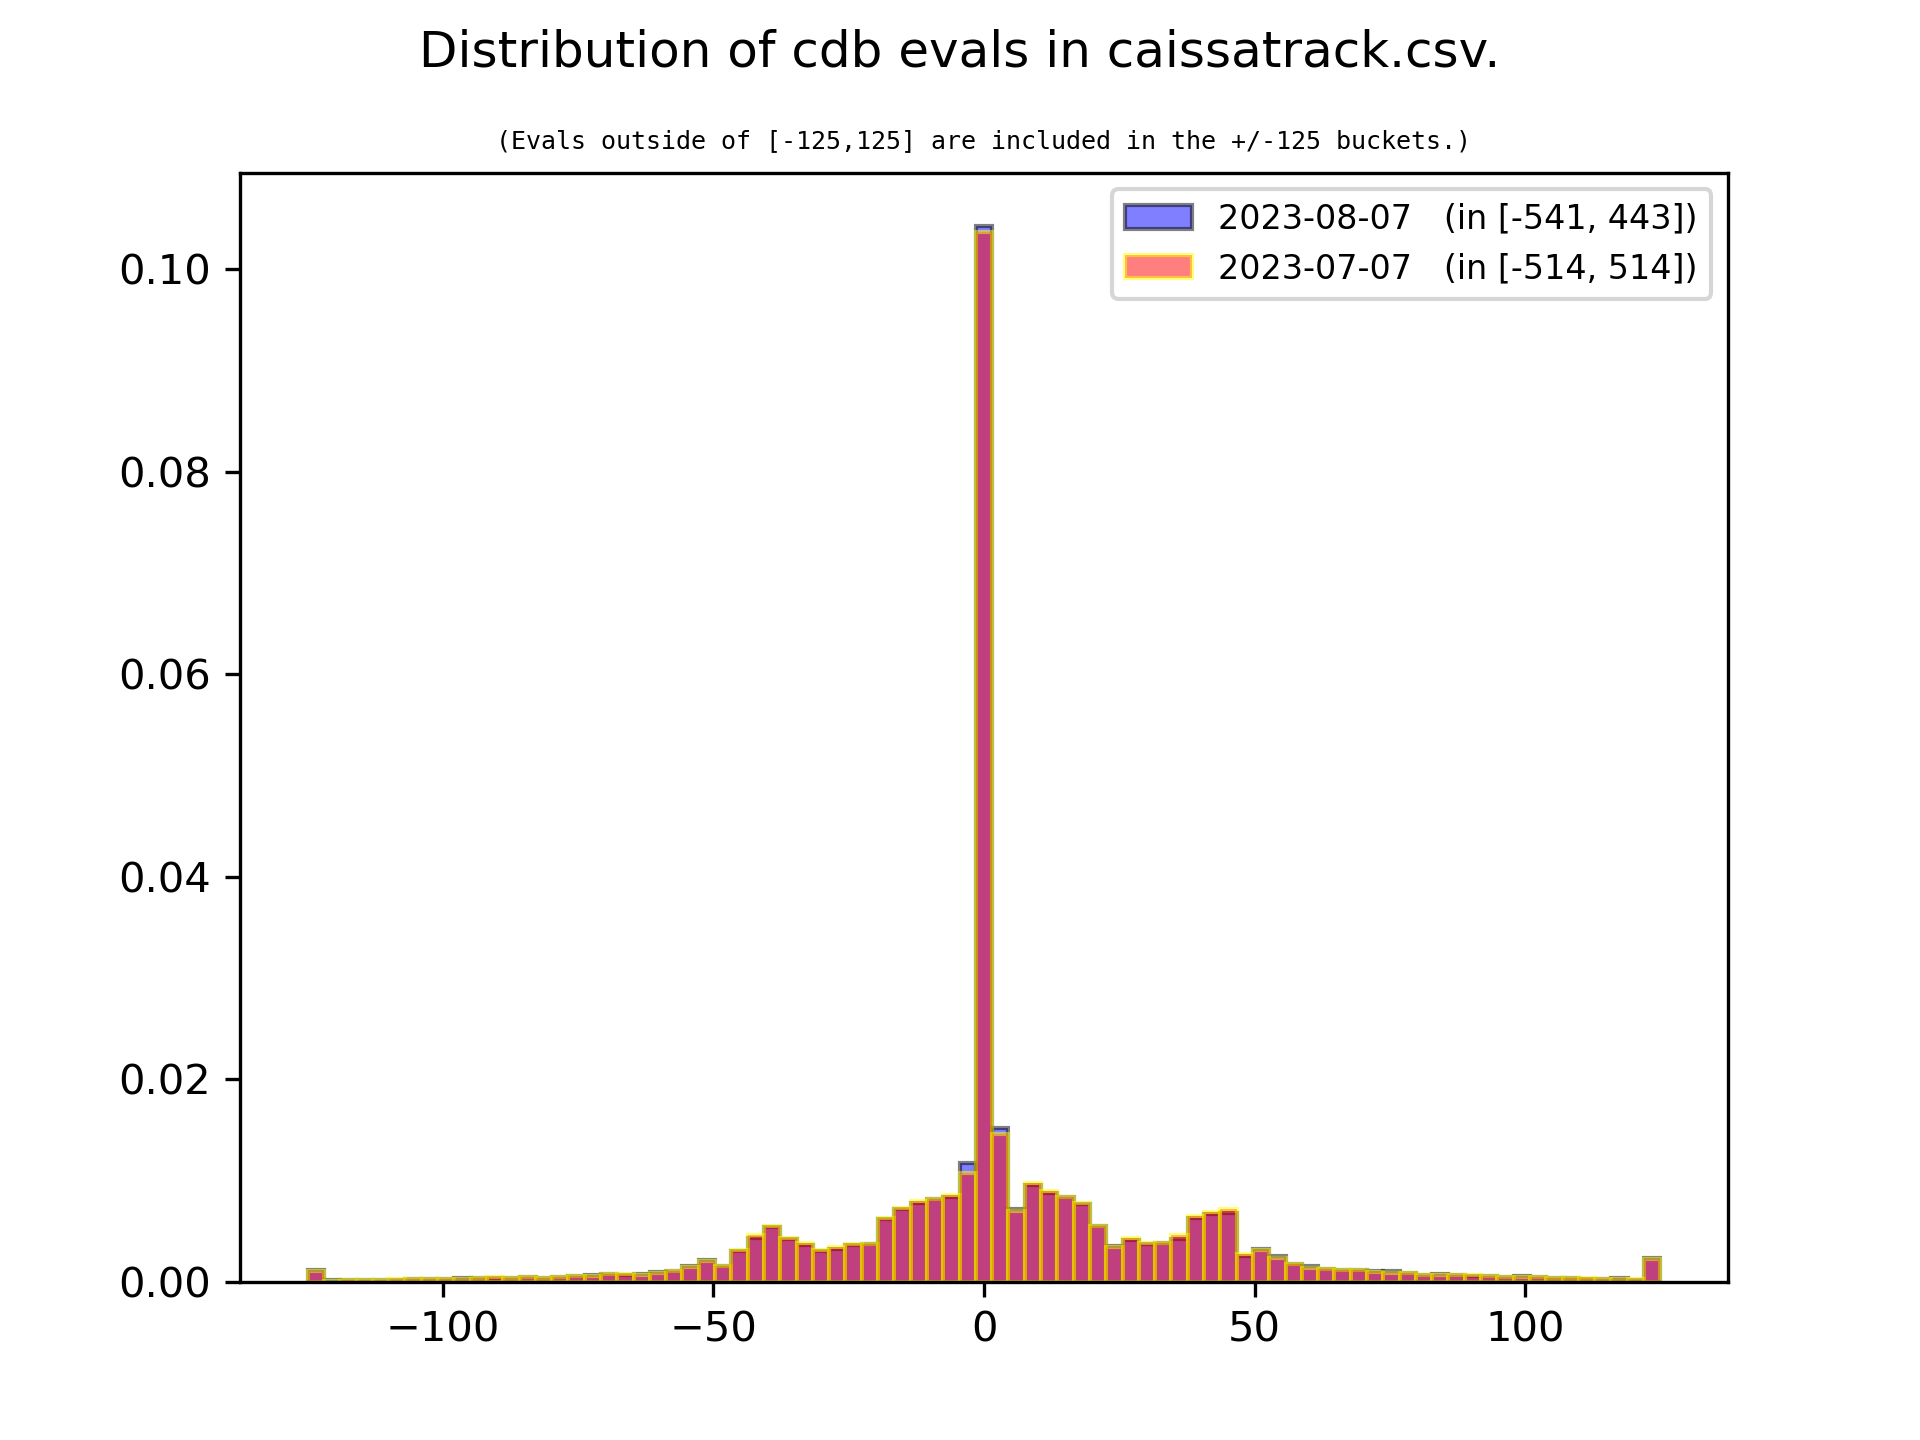
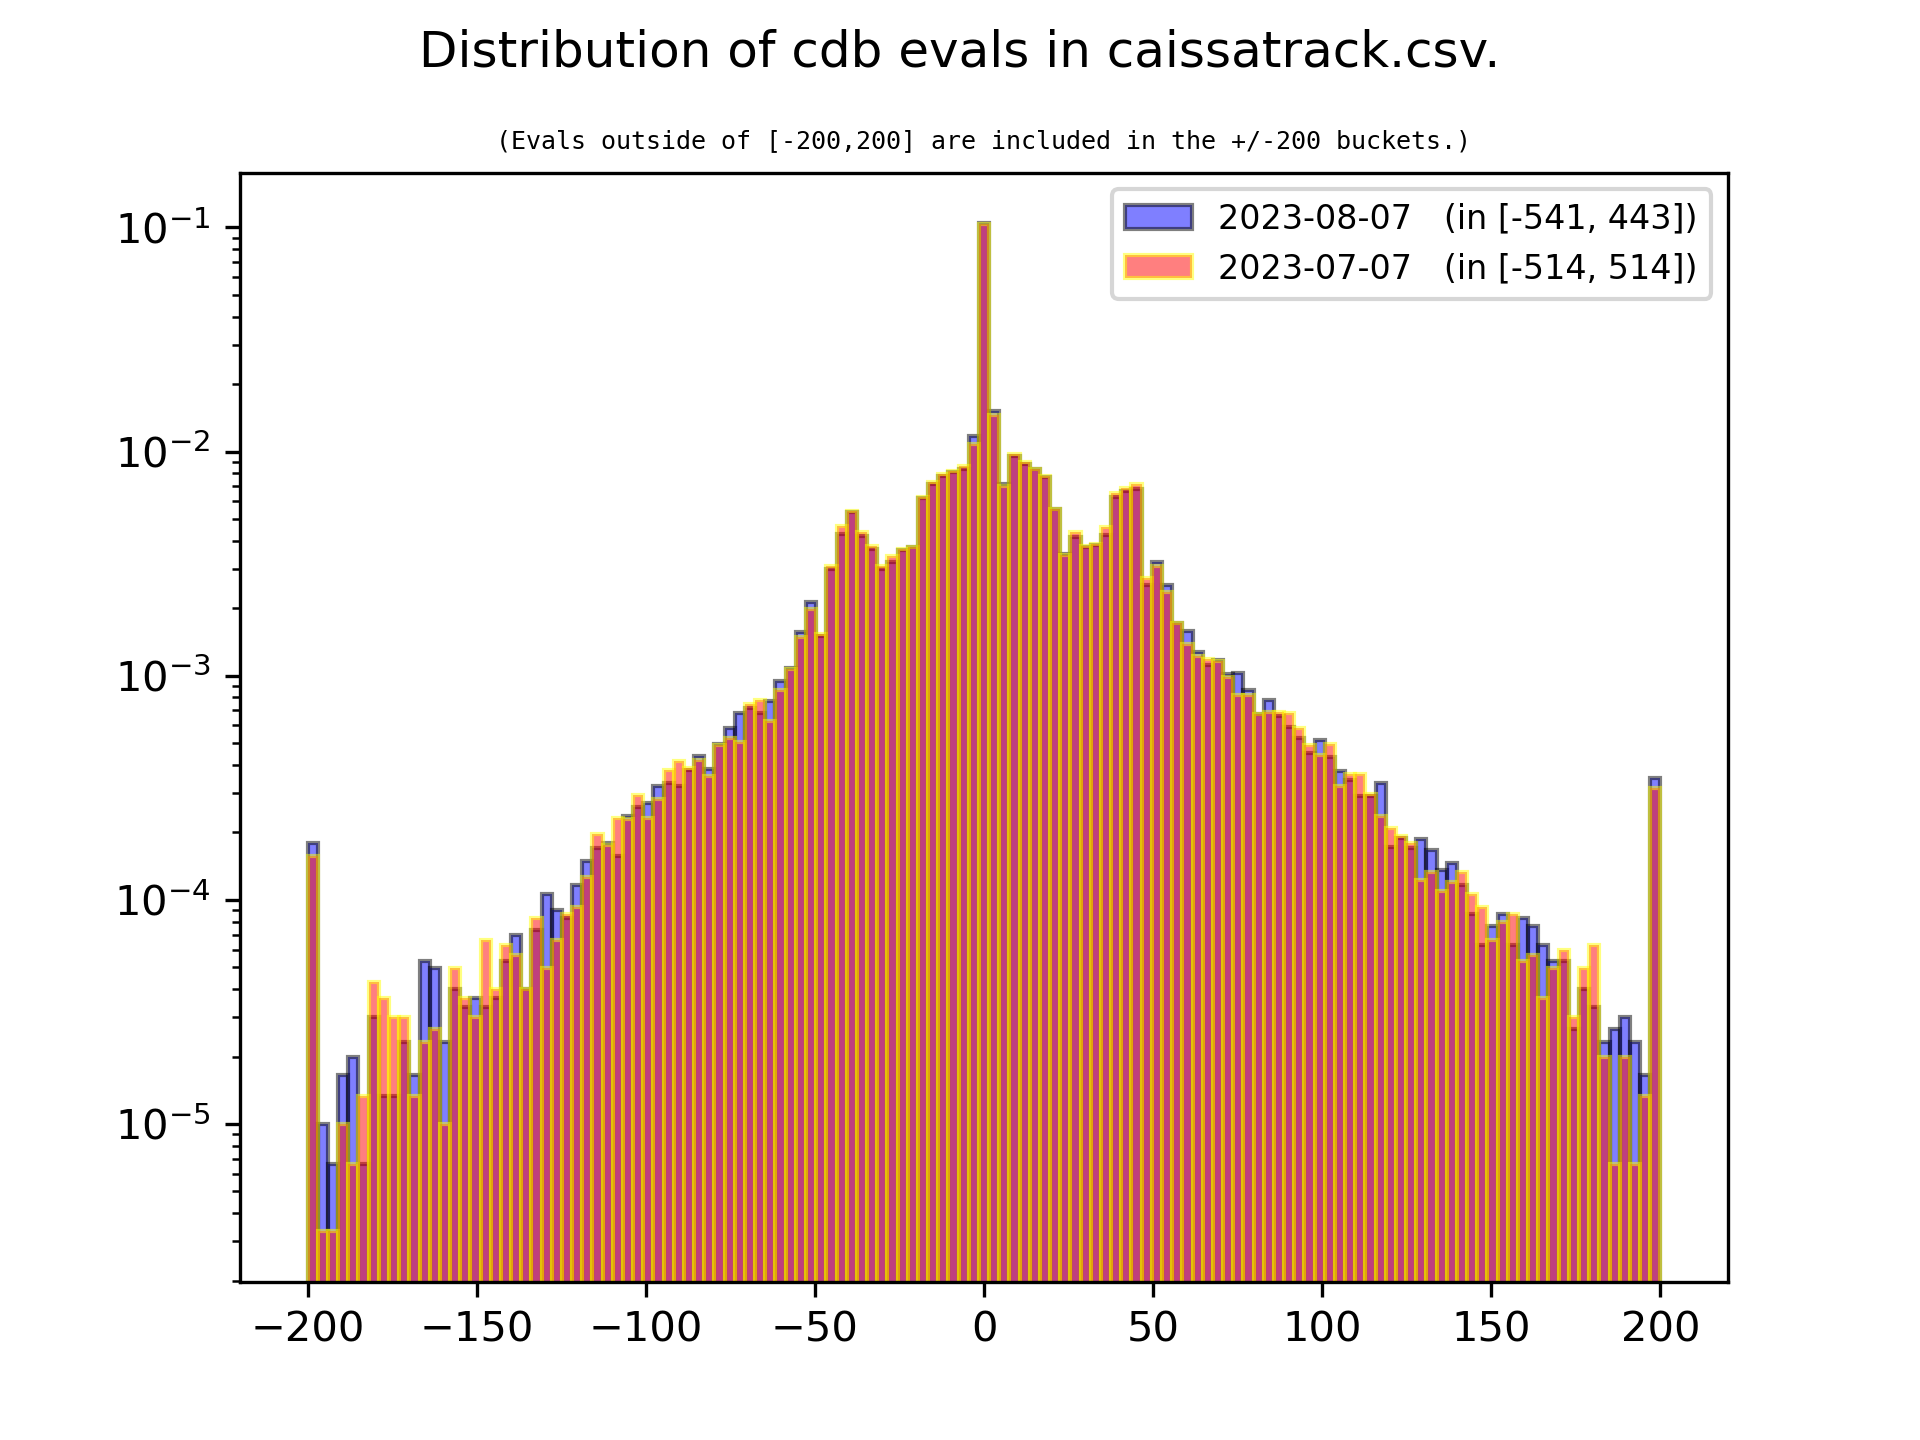
logplot (#5)
* logplot

* cutoff 200

diff --git a/plotdata.py b/plotdata.py
@@ -26,7 +26,7 @@ class matedata:
                     self.evals.append(ast.literal_eval(dict1Str))
                     self.depths.append(ast.literal_eval(dict2Str))
 
-    def create_graph(self, cutOff=100, pv=False):
+    def create_graph(self, cutOff=125, logplot=False, pv=False):
         dateOld, dateNew = str(self.date[0]), str(self.date[-1])
         if pv:
             dictOld, dictNew = self.depths[0], self.depths[-1]
@@ -87,6 +87,8 @@ class matedata:
                 fontsize=6,
                 family="monospace",
             )
+            if logplot:
+                ax.set_yscale("log")
         plt.savefig(self.prefix + ("pv" if pv else "") + ".png", dpi=300)
 
 
@@ -98,18 +100,23 @@ if __name__ == "__main__":
     parser.add_argument(
         "filename",
         nargs="?",
-        help="file with statistics over time",
+        help="File with cdb eval and PV length statistics over time.",
         default="caissatrack.csv",
     )
     parser.add_argument(
         "--cutOff",
-        help="Cutoff value for distribution plot.",
+        help="Cutoff value for the eval distribution plot.",
         type=int,
         default=125,
+    )
+    parser.add_argument(
+        "--logplot",
+        action="store_true",
+        help="Use logplot for the eval distribution plot.",
     )
     args = parser.parse_args()
 
     prefix, _, _ = args.filename.partition(".")
     data = matedata(prefix)
-    data.create_graph(cutOff=args.cutOff)
+    data.create_graph(cutOff=args.cutOff, logplot=args.logplot)
     data.create_graph(pv=True)
